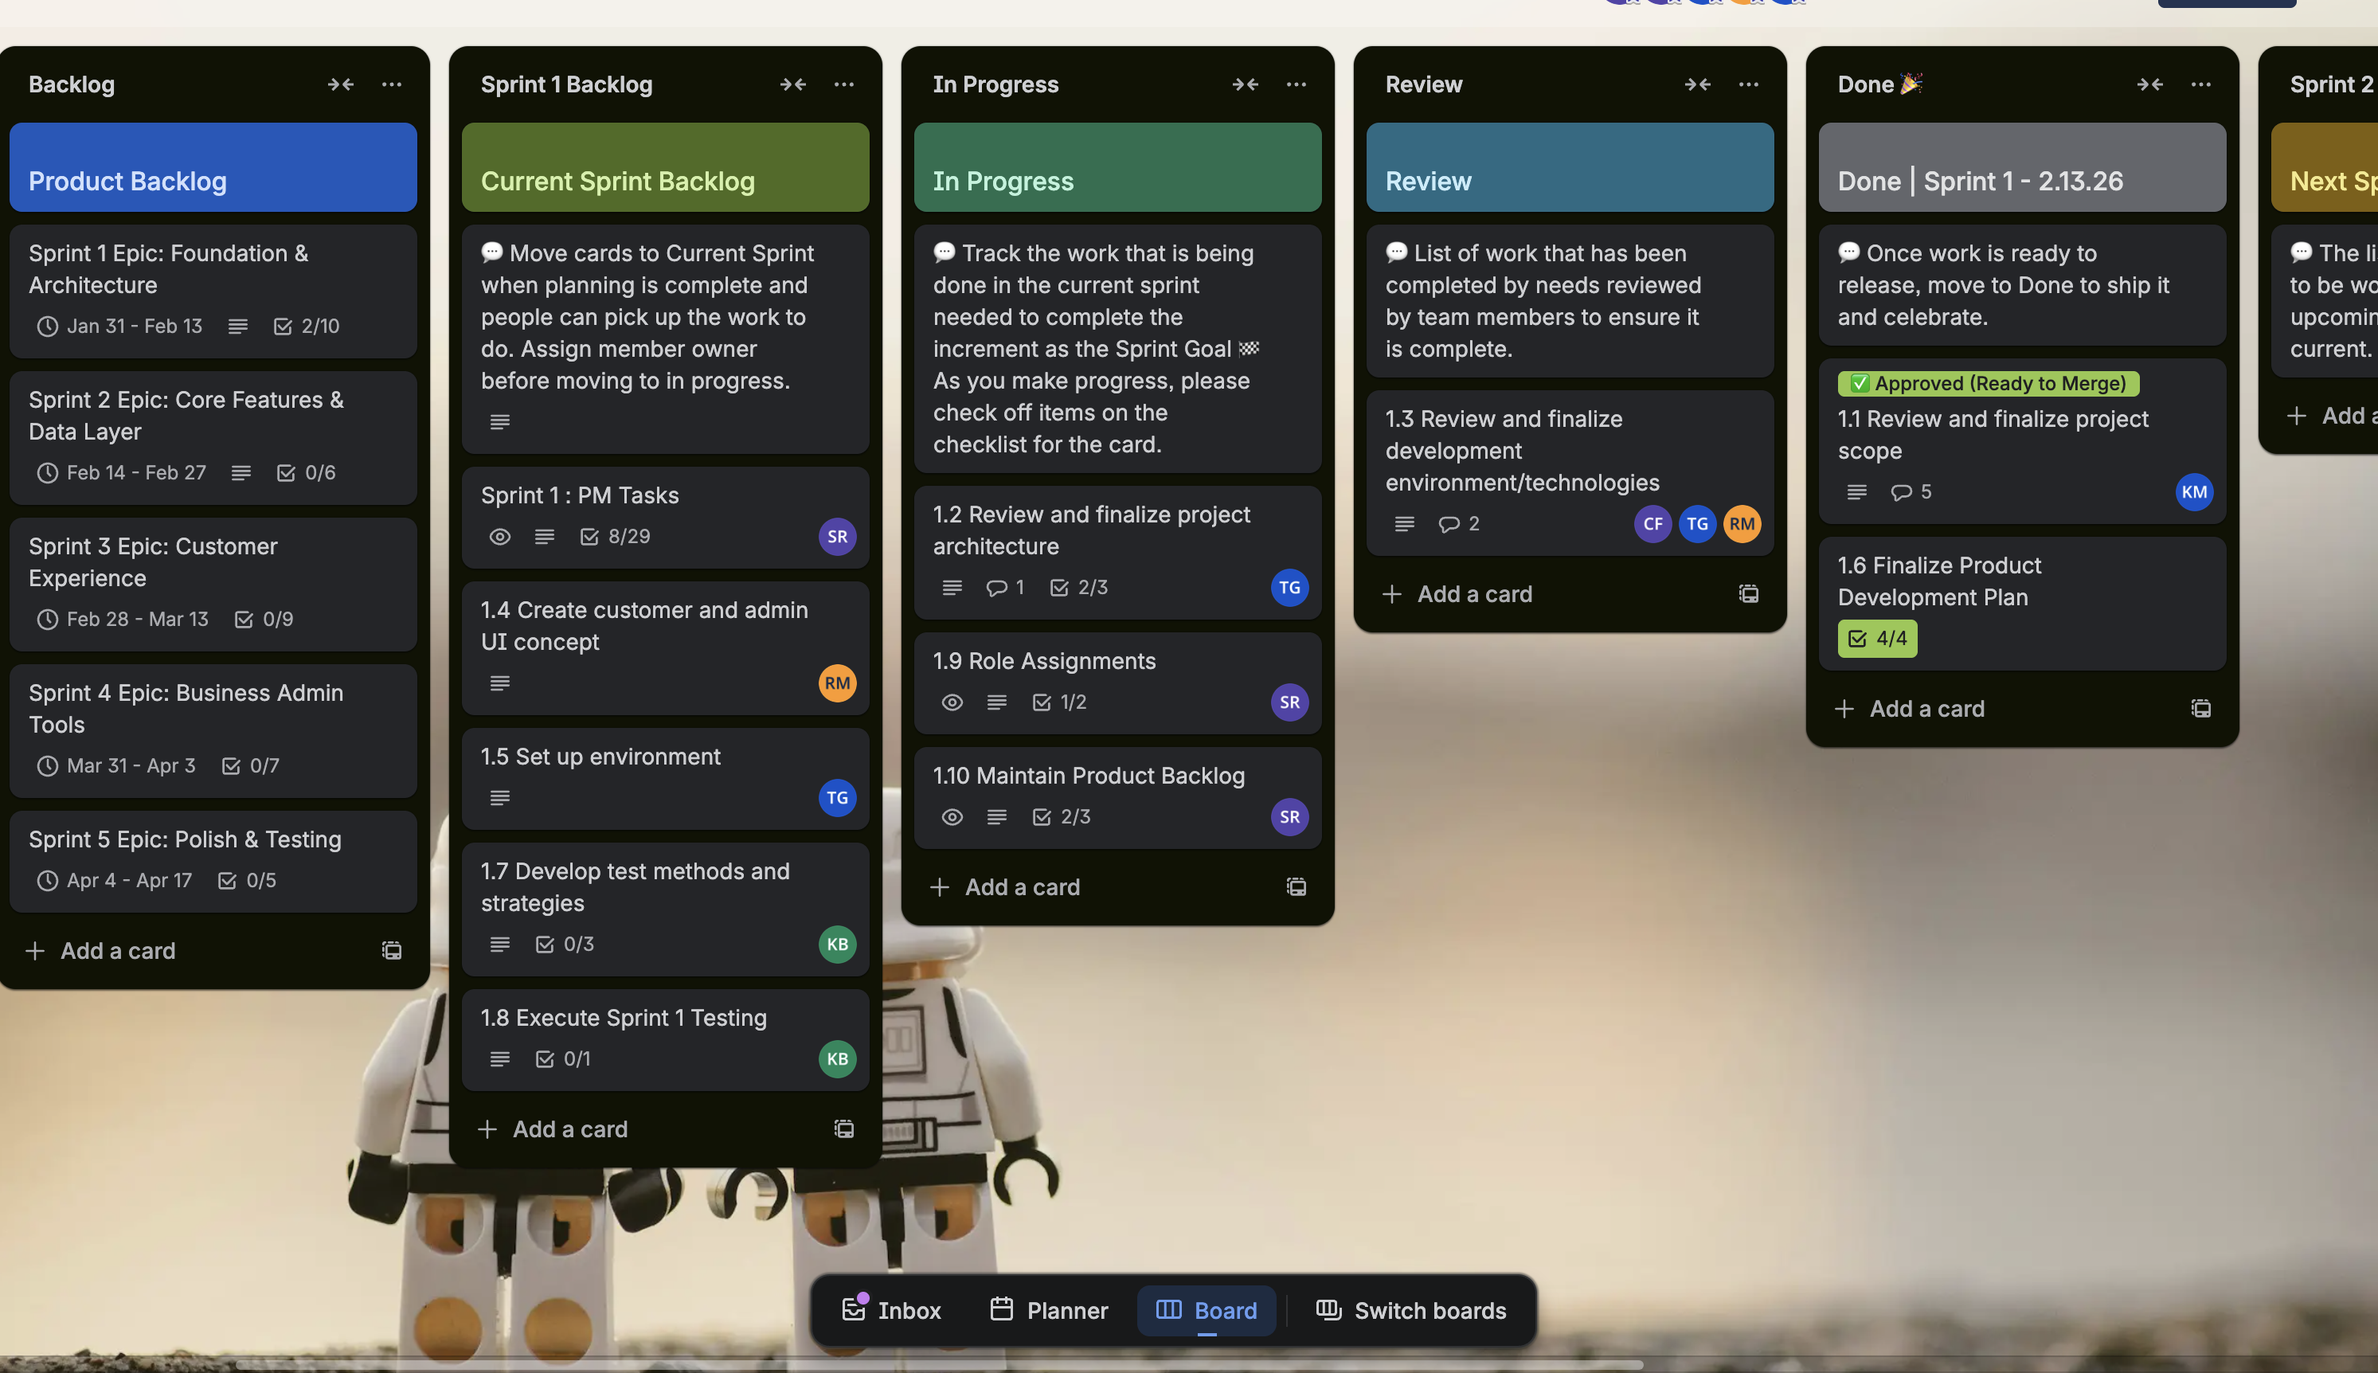
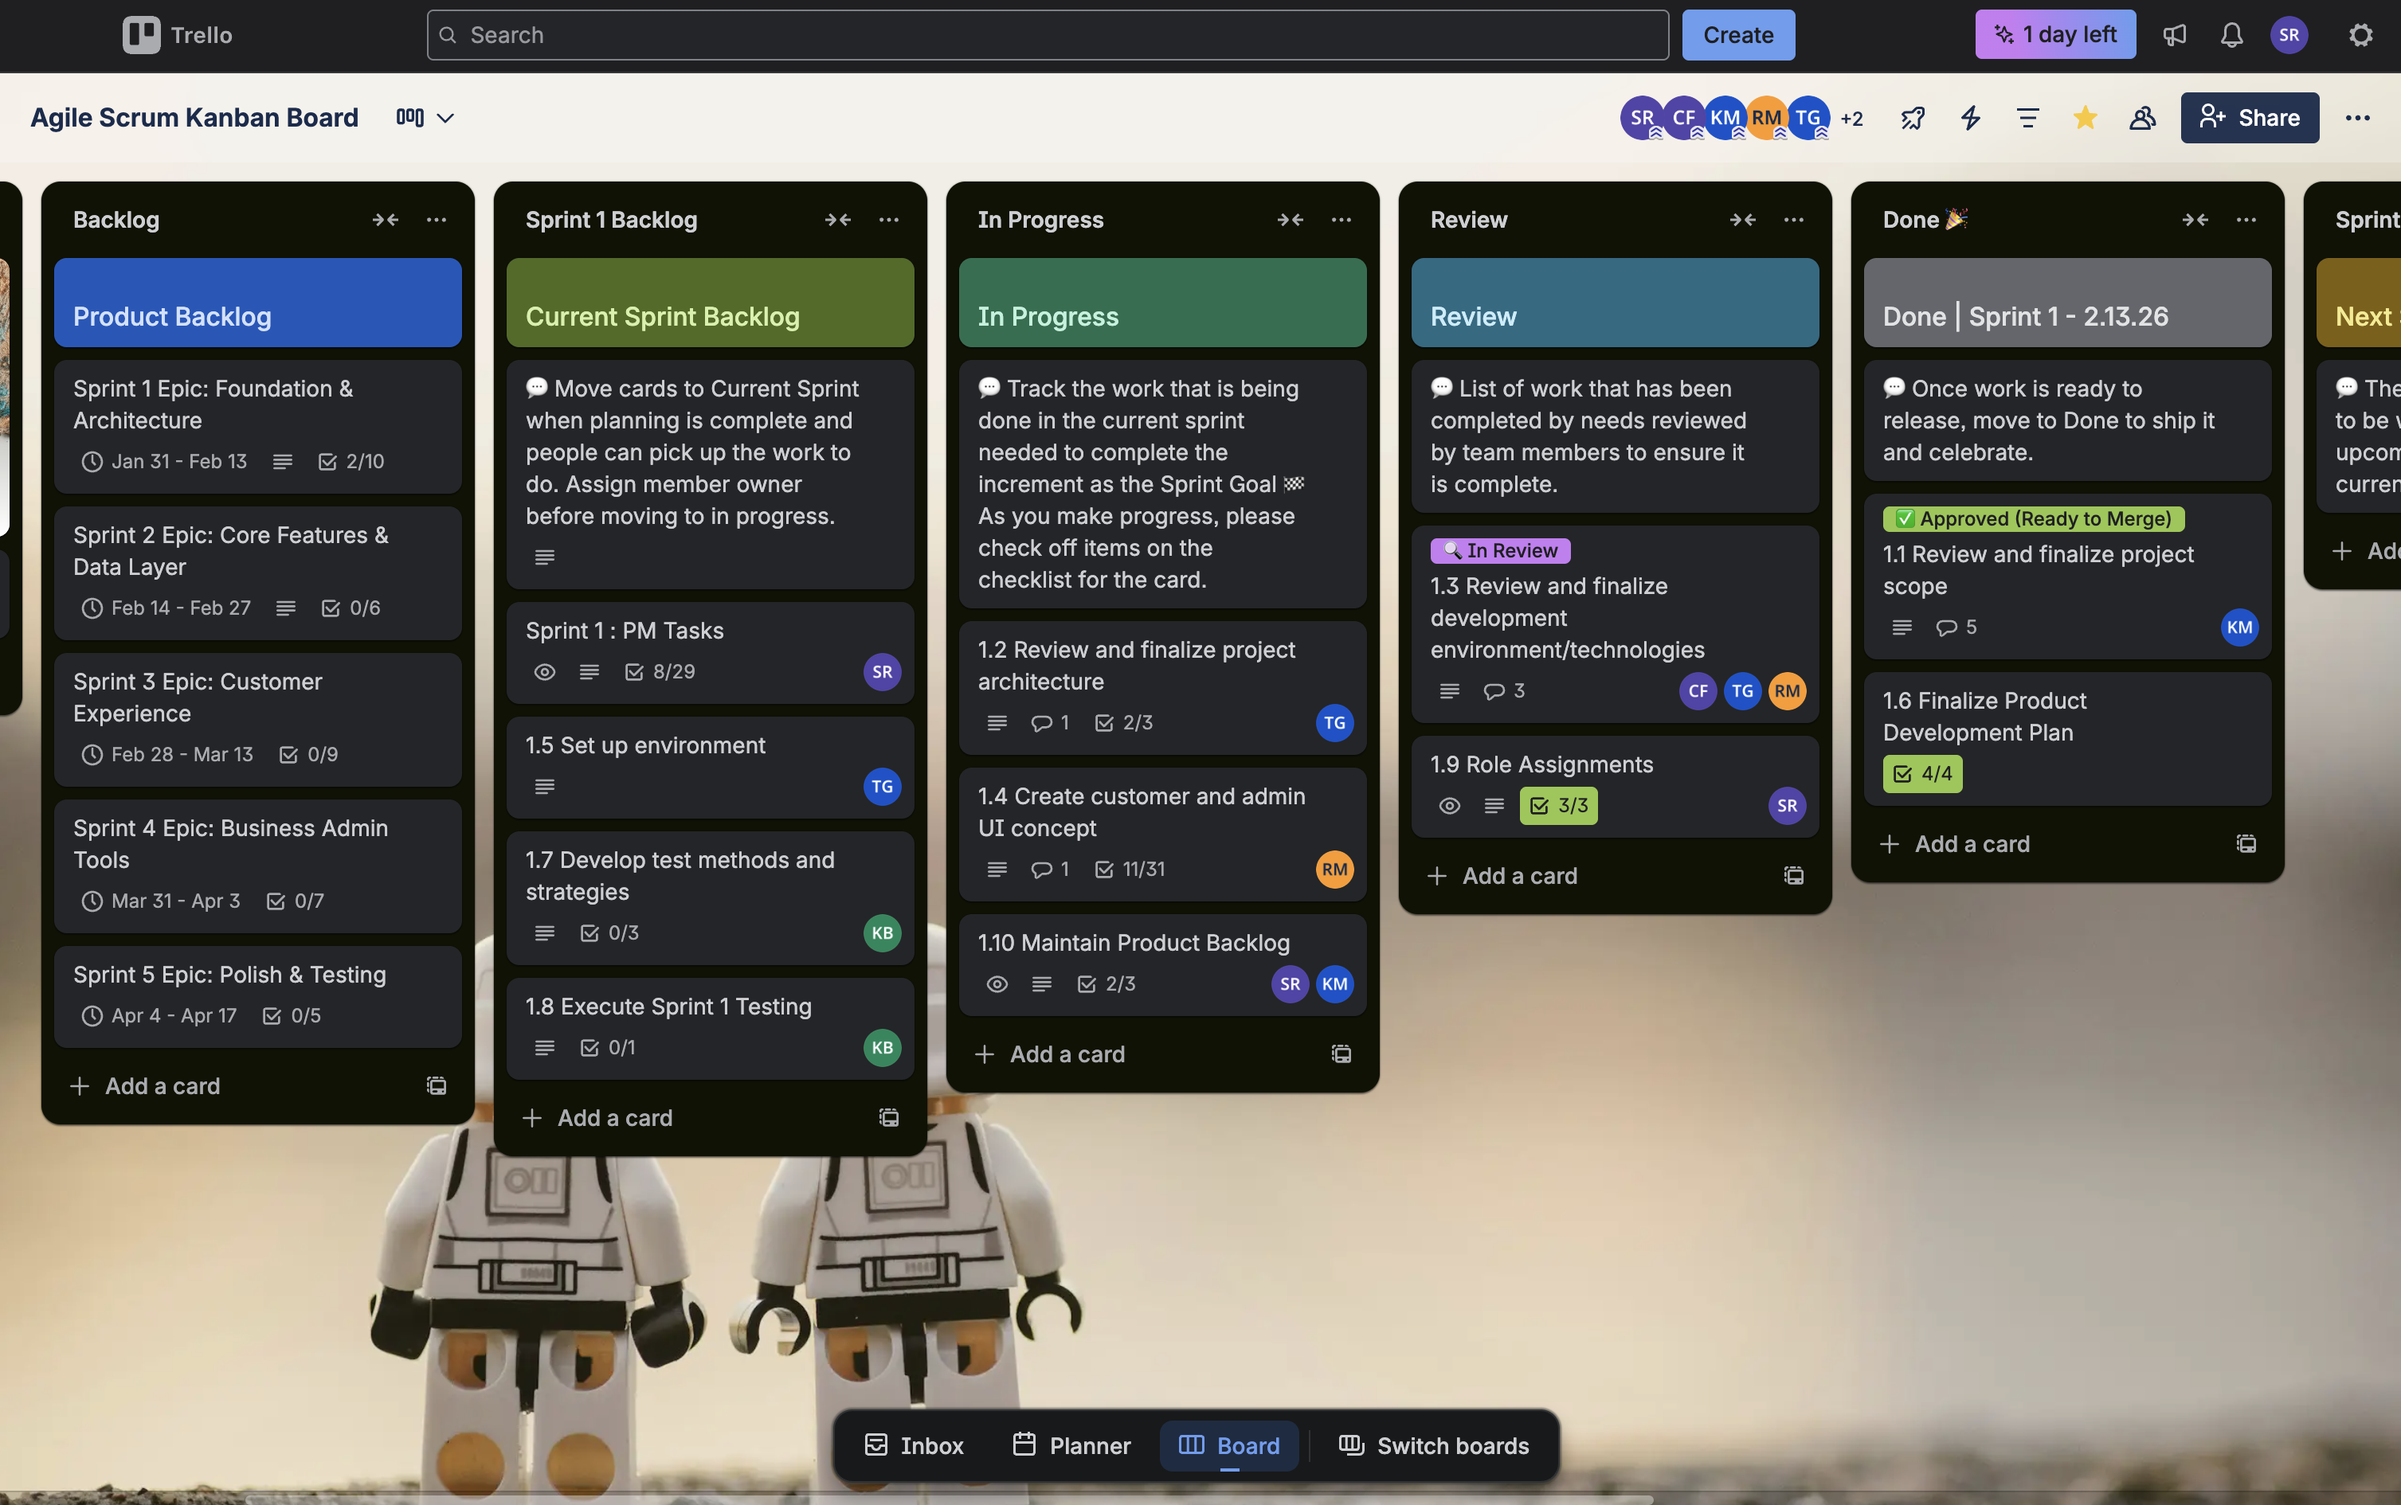
Update product backlog, status update, and image
Restructure product backlog entries and update statuses: renumbered items (1.9, 1.10, 1.6.3, 2.2, 2.1), mark Documentation for Roles complete and Organize Backlog as on‑going, and add Git Branching Strategy. Update S1 W1 status report: add Rachel M. tasks (requirements, back-end assistance, design), add Serina R. role documentation task, and remove an empty problems placeholder. Also replace the Sprint Backlog capture image (binary updated).

diff --git a/docs/Planning/Product_Backlog.md b/docs/Planning/Product_Backlog.md
@@ -20,12 +20,12 @@
 | 1.7     | Develop test methods and strategies                          | As a QA Lead, I want to develop a test plan, cases, and sample scenarios so we can implement them to verify Sprint 1 features are stable and meet acceptance criteria. | Must            | In progress |
 | 1.8     | Execute Sprint 1 testing                                     | As a QA Lead, I want to execute test cases against Sprint 1 features so that we can identify defects and verify the codebase meets acceptance criteria before the sprint review. | Must            | Not started |
 | 1.3     | Set-up guide for local development environment               | "As a developer, I want clear setup instructions so that I can quickly get the project running on my machine" | Should          | Not Started |
-| *       | Documentation for Roles and Responsibilities                 | "As a team member, I want an idea of what aspects of development I should focus on, as well as team strengths and weaknesses." | Must            | In Progress |
-| *       | Organize the Product Backlog by Sprint                       | "As a developer, I want to quickly determine which backlog items are relevant to the current sprint." | Must            | Not Started |
-|         | Git Branching Strategy                                       | As a developer, I want a clear branching strategy so that we can collaborate without merge conflicts. | Must            | Not Started |
+| 1.9     | Documentation for Roles and Responsibilities                 | "As a team member, I want an idea of what aspects of development I should focus on, as well as team strengths and weaknesses." | Must            | Complete    |
+| 1.10    | Organize the Product Backlog by Sprint                       | "As a developer, I want to quickly determine which backlog items are relevant to the current sprint." | Must            | On-going    |
+| 1.6.3   | Git Branching Strategy                                       | As a developer, I want a clear branching strategy so that we can collaborate without merge conflicts. | Must            | Not Started |
 |         | Code Review Guidelines                                       | As a developer, I want code review standards so that we maintain high code quality and share knowledge across the team. | Must            | Not Started |
-|         | Database with Sample Inventory                               | "As a developer, I want to access sample data so that I may use it for application development and testing." | Must            | Not Started |
-|         | Database Schema Implementation                               | As a developer, I want a properly structured database so that all application data is stored securely and efficiently. | Must            | Not Started |
+| 2.2     | Database with Sample Inventory                               | "As a developer, I want to access sample data so that I may use it for application development and testing." | Must            | Not Started |
+| 2.1     | Database Schema Implementation                               | As a developer, I want a properly structured database so that all application data is stored securely and efficiently. | Must            | Not Started |
 |         | User Authentication System                                   | "As a customer, I want to create an account with my email and password so that I can securely access the ordering system and track my orders" | Must            | Not Started |
 |         | Create separate authentication flow for business administrators | As a business owner, I want to log into a secure admin panel so that I can manage my inventory and view sales data. | Must            | Not Started |
 |         | User Profile Management                                      | As a customer, I want to update my profile information so that my contact details and preferences stay current. | Must            | Not started |

diff --git a/docs/S1-Agile/Team7_S1W1_StatusUpdate.md b/docs/S1-Agile/Team7_S1W1_StatusUpdate.md
@@ -28,6 +28,9 @@
 1.2.1 Develop High-Level Architecture -- **Tristin G.**
 1.2.2 Develop ADRS -- **Tristin G.**
 1.3 Review and Finalize Development Environment/Technolgies -- **Caleb F.**
+1.4.1 Requirements and Functionality Basics -- **Rachel M.**
+1.4.2 Back-End Assistance -- **Rachel M.**
+1.4.3 Design Basics -- **Rachel M.**
 1.6 Finalize Product Development Plan -- **Kim M.**
 1.6.3 Document Branching Strategies -- **Serina R.**
 1.6.4 Document Workflow for Git and GitHub Desktop -- **Serina R.**
@@ -35,6 +38,7 @@
 1.7.2 Write Test Case Scenarios -- **Kenny B.**
 1.7.3 Build Test Case Template -- **Kenny B.**
 1.9.1 Assign Roles -- **Serina R.**
+1.9.2 Document Role Guide and Expectations -- **Serina R.**
 1.10.1 Update Product Backlog -- **Serina R.**
 1.10.2 Organize Backlog to folow Sprint Structure -- **Serina R.**
 
@@ -43,9 +47,6 @@
 ---
 
 ## Problems/Challenges/Roadblocks:
-
-**Description:** 
-**Status**:  Resolved ✅
 
 **Description:** Question about whether to include AES-256 Encyrption.
 **Status**:  Resolved ✅
